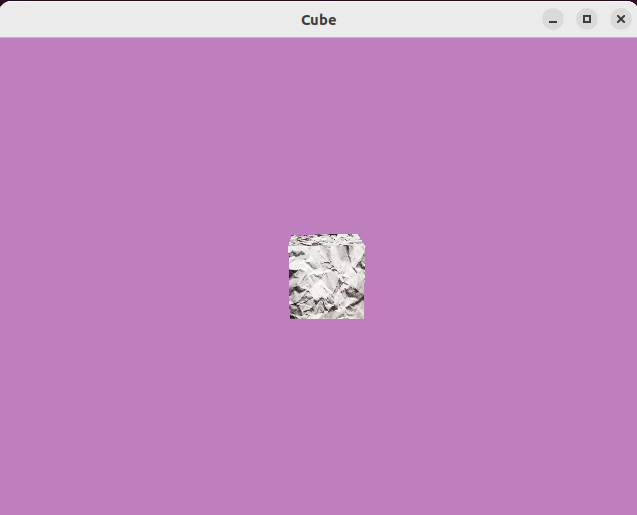
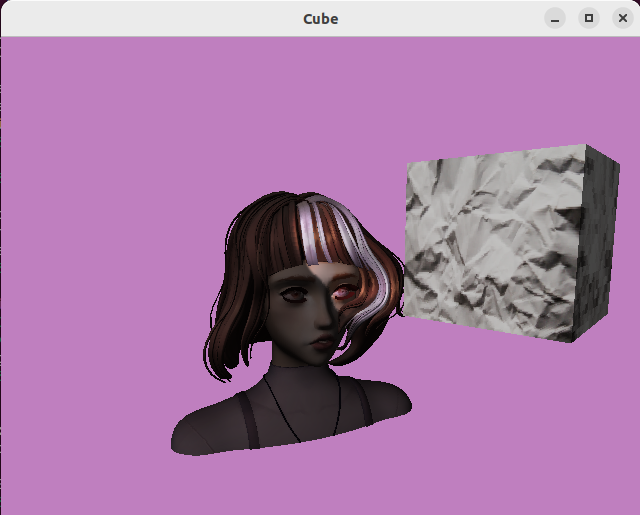
Added female face model with lighting shadow

Changed region(s): [[0.2684, 0.2796, 0.9843, 0.901], [0.0, 0.0, 1.0, 0.0932], [0.0, 0.0, 0.0298, 0.0311]]

diff --git a/Learning_OpenGL/src/factories/factory.cpp b/Learning_OpenGL/src/factories/factory.cpp
@@ -52,9 +52,13 @@ void Factory::make_girl(glm::vec3 position, glm::vec3 eulers) {
 	transform.eulers = eulers;
 	transformComponents[entities_made] = transform;
 	
-	make_obj_mesh("../models/girl.obj");
-	//render.material = make_texture("../img/stargirl.png");
-	//renderComponents[entities_made++] = render;
+	glm::mat4 preTransform = glm::mat4(1.0f);
+	preTransform = glm::rotate(preTransform, glm::radians(90.0f), {1.0f, 0.0f, 0.0f});
+	preTransform = glm::rotate(preTransform, glm::radians(90.0f), {0.0f, 1.0f, 0.0f});
+
+	RenderComponent render = make_obj_mesh("../models/girl.obj", preTransform);
+	render.material = make_texture("../img/stargirl.png");
+	renderComponents[entities_made++] = render;
 }
 
 RenderComponent Factory::make_cube_mesh(glm::vec3 size) {
@@ -64,7 +68,7 @@ RenderComponent Factory::make_cube_mesh(glm::vec3 size) {
     float h = size.z;
 
     std::vector<float> vertices = {
-         l,  w, -h, 1.0f, 1.0f,  0.0f,  0.0f, -1.0f,
+	 l,  w, -h, 1.0f, 1.0f,  0.0f,  0.0f, -1.0f,
          l, -w, -h, 1.0f, 0.0f,  0.0f,  0.0f, -1.0f,
         -l, -w, -h, 0.0f, 0.0f,  0.0f,  0.0f, -1.0f,
         -l, -w, -h, 0.0f, 0.0f,  0.0f,  0.0f, -1.0f,
@@ -118,13 +122,13 @@ RenderComponent Factory::make_cube_mesh(glm::vec3 size) {
     glBindBuffer(GL_ARRAY_BUFFER, VBO);
     glBufferData(GL_ARRAY_BUFFER, vertices.size() * sizeof(float), 
         vertices.data(), GL_STATIC_DRAW);
-    //position
+    //Position
     glVertexAttribPointer(0, 3, GL_FLOAT, GL_FALSE, 32, (void*)0);
     glEnableVertexAttribArray(0);
-    //texture coordinates
+    //Texture coordinates
     glVertexAttribPointer(1, 2, GL_FLOAT, GL_FALSE, 32, (void*)12);
     glEnableVertexAttribArray(1);
-    //normal
+    //Normal
     glVertexAttribPointer(2, 3, GL_FLOAT, GL_FALSE, 32, (void*)20);
     glEnableVertexAttribArray(2);
 
@@ -138,18 +142,46 @@ glm::vec2 Factory::read_vec2(std::vector<std::string> words) {
 	return glm::vec2(std::stof(words[1]), std::stof(words[2]));
 }
 
-glm::vec3 Factory::read_vec3(std::vector<std::string> words) {
-	return glm::vec3(std::stof(words[1]), std::stof(words[2]), std::stof(words[3]));
+glm::vec3 Factory::read_vec3(std::vector<std::string> words, glm::mat4 preTransform, float w) {
+	return glm::vec3(preTransform * glm::vec4(std::stof(words[1]), std::stof(words[2]), std::stof(words[3]), w));
 }
 
-void Factory::make_obj_mesh(const char* filename) {
+void Factory::read_corner(std::string description, std::vector<glm::vec3>& v, std::vector<glm::vec2>& vt, std::vector<glm::vec3>& vn, std::vector<float>& vertices){
+	std::vector<std::string> v_vt_vn = split(description, "/");
+	glm::vec3 pos = v[std::stol(v_vt_vn[0]) - 1];
+	vertices.push_back(pos[0]);
+	vertices.push_back(pos[1]);
+	vertices.push_back(pos[2]);
+
+	glm::vec2 tex = vt[std::stol(v_vt_vn[1]) - 1];
+	vertices.push_back(tex[0]);
+	vertices.push_back(tex[1]);
+
+	glm::vec3 normal = vn[std::stol(v_vt_vn[2]) - 1];
+	vertices.push_back(normal[0]);
+	vertices.push_back(normal[1]);
+	vertices.push_back(normal[2]);
+}
+
+void Factory::read_face(std::vector<std::string> words, std::vector<glm::vec3>& v, std::vector<glm::vec2>& vt, std::vector<glm::vec3>& vn, std::vector<float>& vertices) {
+	size_t triangleCount = words.size() - 3;
+	for (size_t i = 0; i < triangleCount; ++i){
+		read_corner(words[1], v, vt, vn, vertices);
+		read_corner(words[2 + i], v, vt, vn, vertices);
+		read_corner(words[3 + i], v, vt, vn, vertices);
+	}
+}
+
+RenderComponent Factory::make_obj_mesh(const char* filename, glm::mat4 preTransform) {
 	std::vector<glm::vec3> v;
 	std::vector<glm::vec2> vt;
 	std::vector<glm::vec3> vn;
+	std::vector<float> vertices;
 
 	size_t vertexCount= 0;
 	size_t texcoordCount = 0;
 	size_t normalCount = 0;
+	size_t triangleCount = 0;
 	
 	std::string line;
 	std::vector<std::string> words;
@@ -163,22 +195,25 @@ void Factory::make_obj_mesh(const char* filename) {
 		if (!words[0].compare("v")) ++vertexCount;
 		else if (!words[0].compare("vt")) ++texcoordCount;
 		else if (!words[0].compare("vn"))  ++normalCount;
+		else if (!words[0].compare("f")) triangleCount += words.size() - 3;
 
 	}
-	
+
 	file.close();
 
 	v.reserve(vertexCount);
 	vt.reserve(texcoordCount);
 	vn.reserve(normalCount);
+	vertices.reserve(triangleCount * 3 * 8);
 	file.open(filename);
 
 	while(std::getline(file, line)) {
 
 		words = split(line, " ");
-		if (!words[0].compare("v")) v.push_back(read_vec3(words));
+		if (!words[0].compare("v")) v.push_back(read_vec3(words, preTransform, 1.0));
 		else if (!words[0].compare("vt")) vt.push_back(read_vec2(words));
-		else if (!words[0].compare("vn")) vn.push_back(read_vec3(words)); 
+		else if (!words[0].compare("vn")) vn.push_back(read_vec3(words, preTransform, 0.0f)); 
+		else if (!words[0].compare("f")) read_face(words, v, vt, vn, vertices);
 
 	}
 
@@ -188,6 +223,33 @@ void Factory::make_obj_mesh(const char* filename) {
 	std::cout << "\tvertices: " << v.size() << std::endl;
 	std::cout << "\ttex coords: " << vt.size() << std::endl;
 	std::cout << "\tnormals: " << vn.size() << std::endl;
+	std::cout << "Final data: " << vertices.size() << std::endl;
+
+	unsigned int VAO;
+	glGenVertexArrays(1, &VAO);
+	VAOs.push_back(VAO);
+	glBindVertexArray(VAO);
+
+	unsigned int VBO;
+	glGenBuffers(1, &VBO);
+	VBOs.push_back(VBO);
+	glBindBuffer(GL_ARRAY_BUFFER, VBO);
+	glBufferData(GL_ARRAY_BUFFER, vertices.size() * sizeof(float), 
+	vertices.data(), GL_STATIC_DRAW);
+	//Position
+	glVertexAttribPointer(0, 3, GL_FLOAT, GL_FALSE, 32, (void*)0);
+	glEnableVertexAttribArray(0);
+	//Texture coordinates
+	glVertexAttribPointer(1, 2, GL_FLOAT, GL_FALSE, 32, (void*)12);
+	glEnableVertexAttribArray(1);
+	//Normal
+	glVertexAttribPointer(2, 3, GL_FLOAT, GL_FALSE, 32, (void*)20);
+	glEnableVertexAttribArray(2);
+
+	RenderComponent record;
+	record.VAO = VAO;
+	record.vertexCount = vertices.size() / 8;
+	return record;
 
 }
 
@@ -196,12 +258,12 @@ unsigned int Factory::make_texture(const char* filename) {
 
     int width, height, channels;
     stbi_set_flip_vertically_on_load(true);
-	unsigned char* data = stbi_load(
+    unsigned char* data = stbi_load(
         filename, &width, &height, &channels, STBI_rgb_alpha);
 
 	//make the texture
     unsigned int texture;
-	glGenTextures(1, &texture);
+    glGenTextures(1, &texture);
     textures.push_back(texture);
     glBindTexture(GL_TEXTURE_2D, texture);
 	
@@ -211,13 +273,13 @@ unsigned int Factory::make_texture(const char* filename) {
         GL_RGBA, GL_UNSIGNED_BYTE, data);
 
     //free data
-	stbi_image_free(data);
+    stbi_image_free(data);
 
     //Configure sampler
     glTexParameteri(GL_TEXTURE_2D, GL_TEXTURE_WRAP_S, GL_REPEAT);
-	glTexParameteri(GL_TEXTURE_2D, GL_TEXTURE_WRAP_T, GL_REPEAT);
-	glTexParameteri(GL_TEXTURE_2D, GL_TEXTURE_MIN_FILTER, GL_NEAREST_MIPMAP_LINEAR);
-	glTexParameteri(GL_TEXTURE_2D, GL_TEXTURE_MAG_FILTER, GL_LINEAR);
+    glTexParameteri(GL_TEXTURE_2D, GL_TEXTURE_WRAP_T, GL_REPEAT);
+    glTexParameteri(GL_TEXTURE_2D, GL_TEXTURE_MIN_FILTER, GL_NEAREST_MIPMAP_LINEAR);
+    glTexParameteri(GL_TEXTURE_2D, GL_TEXTURE_MAG_FILTER, GL_LINEAR);
     glGenerateMipmap(GL_TEXTURE_2D);
 
     return texture;

diff --git a/Learning_OpenGL/src/factories/factory.h b/Learning_OpenGL/src/factories/factory.h
@@ -34,9 +34,13 @@ private:
     std::vector<unsigned int> textures;
 
     RenderComponent make_cube_mesh(glm::vec3 size);
-    void make_obj_mesh(const char* filename);
+    RenderComponent make_obj_mesh(const char* filename, glm::mat4 preTransform);
     unsigned int make_texture(const char* filename);
     glm::vec2 read_vec2(std::vector<std::string> words);
-    glm::vec3 read_vec3(std::vector<std::string> words);
+    glm::vec3 read_vec3(std::vector<std::string> words, glm::mat4 preTransform, float w);
+    void read_face(std::vector<std::string> words, std::vector<glm::vec3>& v, std::vector<glm::vec2>& vt, std::vector<glm::vec3>& vn, std::vector<float>& vertices);
+    void read_corner(std::string description, std::vector<glm::vec3>& v, std::vector<glm::vec2>& vt, std::vector<glm::vec3>& vn, std::vector<float>& vertices);
+
+
 
 };

diff --git a/Learning_OpenGL/src/systems/camera_system.cpp b/Learning_OpenGL/src/systems/camera_system.cpp
@@ -48,8 +48,8 @@ bool CameraSystem::update(std::unordered_map<unsigned int, TransformComponent> &
 	glfwPollEvents();
 
 	//Calculate how far mouse has moved from center
-	dEulers.z = -0.01f * static_cast<float>(mouse_x - 320.0);
-	dEulers.y = -0.01f * static_cast<float>(mouse_y - 240.0);
+	dEulers.z = -0.1f * static_cast<float>(mouse_x - 320.0);
+	dEulers.y = -0.1f * static_cast<float>(mouse_y - 240.0);
 
 	//Clamp pitch to 89 degrees
 	eulers.y = fminf(89.0f, fmaxf(-89.0f, eulers.y + dEulers.y));

diff --git a/Learning_OpenGL/src/controller/app.cpp b/Learning_OpenGL/src/controller/app.cpp
@@ -6,9 +6,6 @@ App::App(){
 }
 
 App::~App(){
-	glDeleteBuffers(VBOs.size(), VBOs.data());
-	glDeleteVertexArrays(VAOs.size(), VAOs.data());
-	glDeleteTextures(textures.size(), textures.data());
 	glDeleteProgram(shader);
 
 	delete motionSystem;
